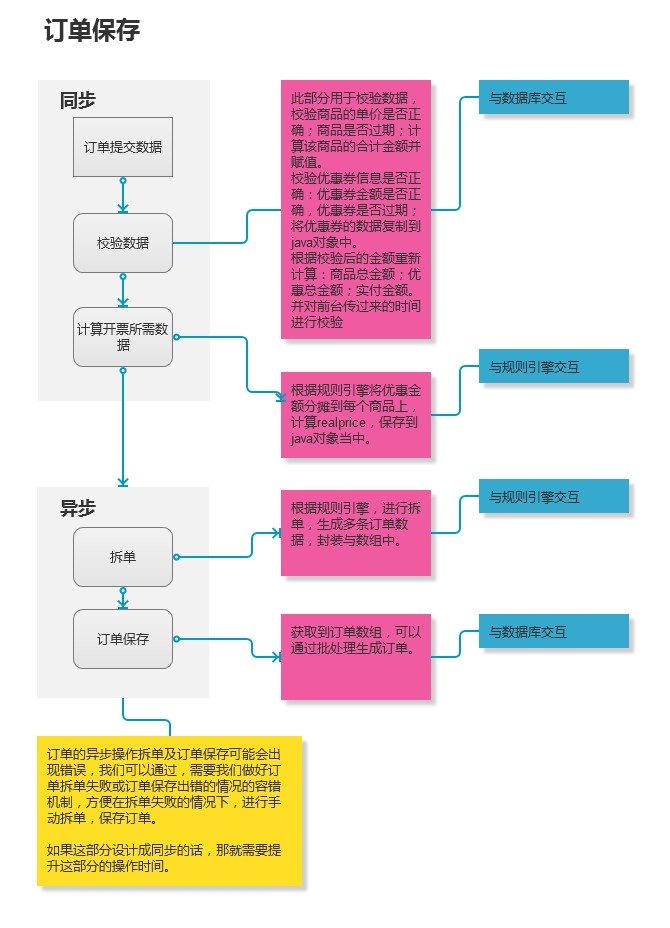
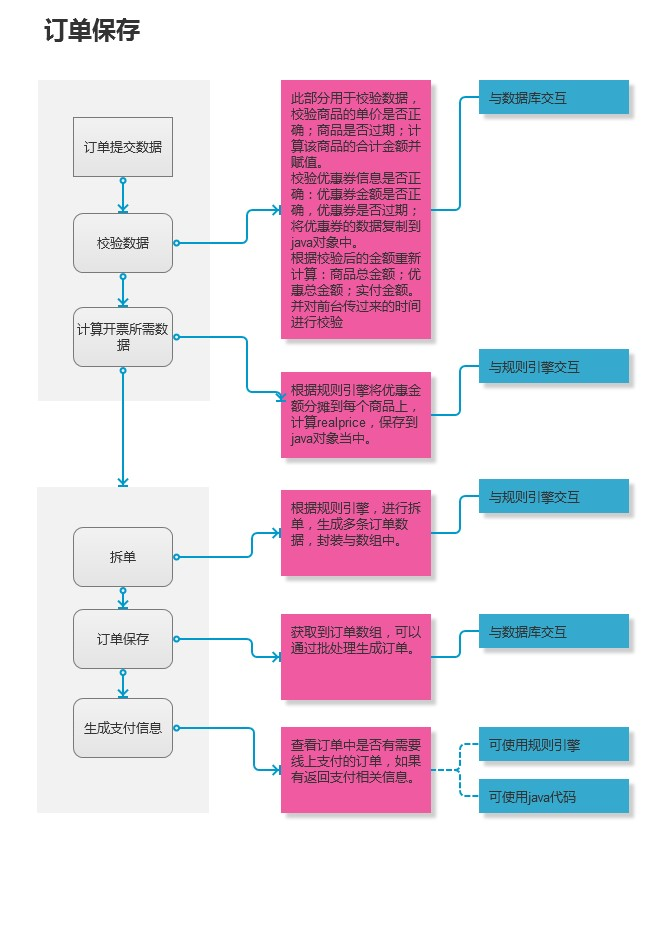
Updates img/project/chaidan.jpg
Auto commit by GitBook Editor

diff --git a/guan-yu-dian-shang-ping-tai-de-she-ji/dian-shang-ping-tai-de-chai-dan.md b/guan-yu-dian-shang-ping-tai-de-she-ji/dian-shang-ping-tai-de-chai-dan.md
@@ -25,12 +25,52 @@
 
 分析上面的拆单因素拆单的原因主要为商品的种类，相同类型的商品必然是在一个订单当中的，先判断判断商品有哪些种类：
 
-桶： Boolean false
-套： Boolean false
-箱： Boolean false
-购买空桶： Boolean false
-抵押空桶： Boolean false
+支付方式
 
-if(抵押)
+paytype:01(微信支付)、02（支付宝支付）、03（现金支付）、04（水票支付）
+
+桶： Boolean false istong
+套： Boolean false istao
+箱： Boolean false isxiang
+购买空桶： Boolean false isgoumai
+抵押空桶： Boolean false isdiya
+
+按照分类分别组装5组商品数据
+
+桶： ArrayList [] tong
+套： ArrayList [] tao
+箱： ArrayList [] xiang
+购买空桶： ArrayList [] goumai
+抵押空桶： ArrayList [] diya
+
+拆单的情况有下面几种：
+
+1、(isdiya) 
+
+将抵押空桶进行拆分（现金支付）
+
+2、(istao)
+
+将水票拆为独立的订单（现金支付）
+
+3、(istong) && (istao)
+
+将桶装水拆为独立订单（水票支付）
+
+4、(isgoumai) && (istao)
+
+将购买的空桶拆为一个订单（现金支付）；将水票套餐拆为一个订单（现金支付）。
+
+5、(paytype == "水票支付") && (isgoumai)
+
+将购买的空桶拆为一个订单（现金支付）；将桶装水拆为一个订单（水票支付）。
+
+6、none
+
+不拆单
+
+
+
+
 
 
